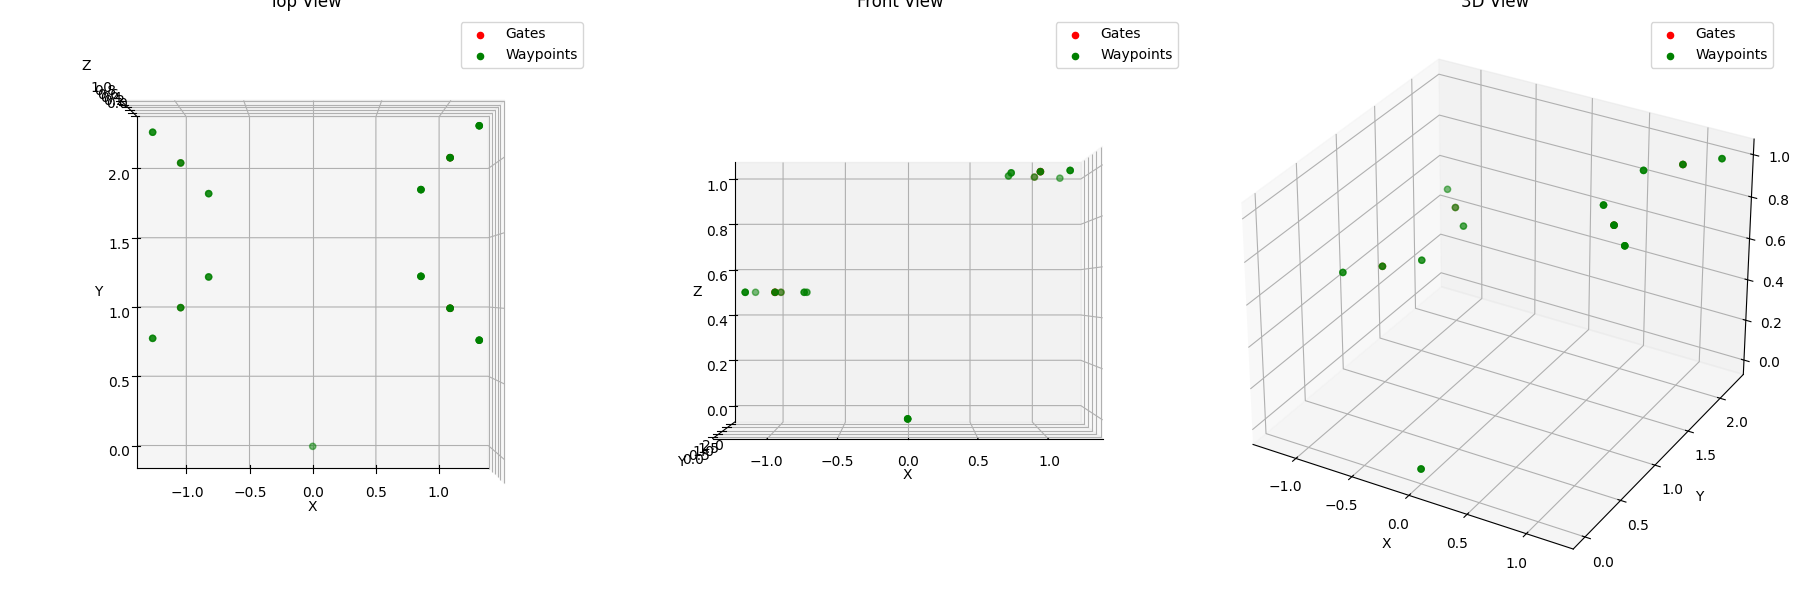
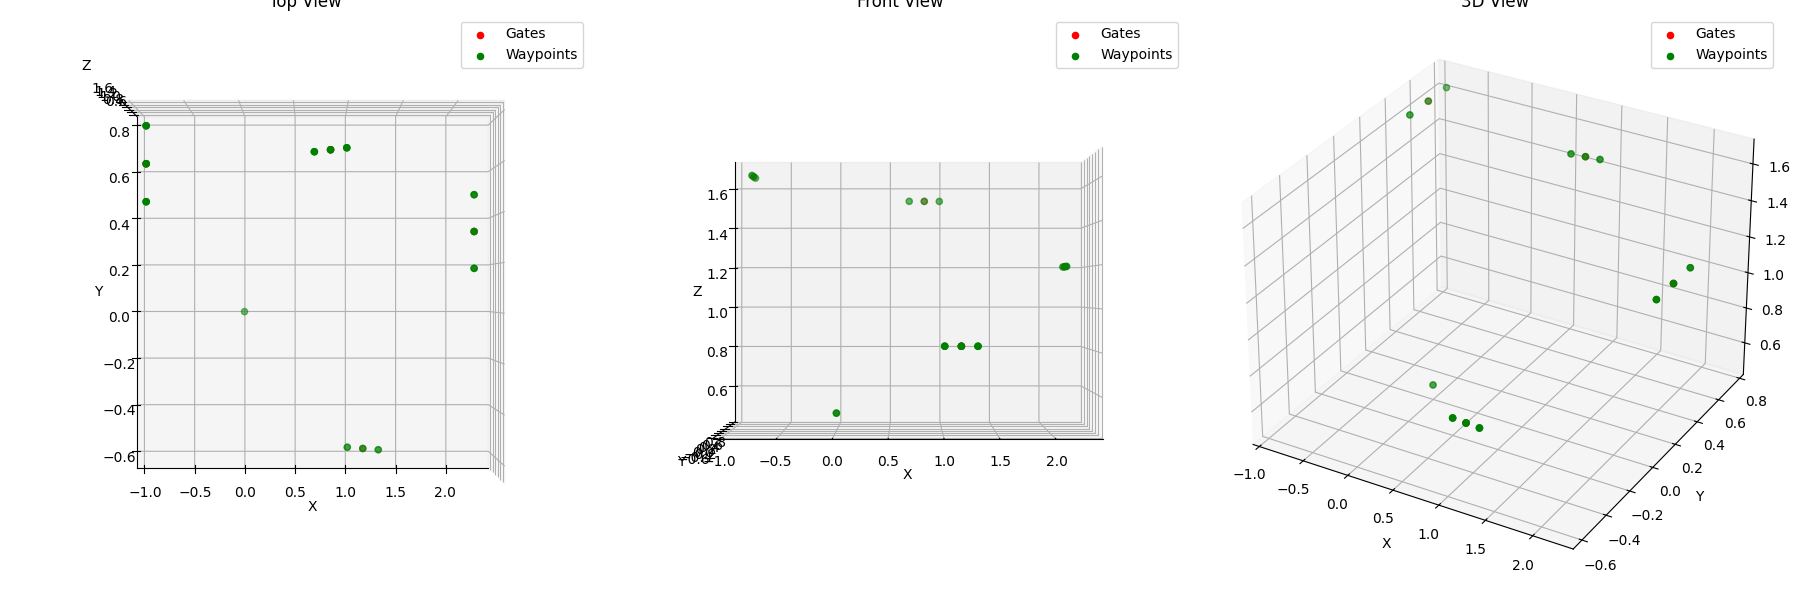
first try trajectory planning

diff --git a/main.py b/main.py
@@ -42,12 +42,13 @@ GATE_THRESHOLD = 0.05                 # Threshold for the position check, in met
 DT = 0.01                             # Time step for the main loop, in seconds
 LANDING_COORD = [0, 0, 0, 0]          # Landing position of the drone, in [m, m, m, rad]
 TAKE_OFF_COORD = [0, 0, 0.5, 0]       # Take off position of the drone, in [m, m, m, rad]
-GATES = [[1.0, 1.0, 1.0, 3*np.pi/4],  # [x, y, z, yaw] of each true gate, in [m, m, m, rad]
-         [1.0, 2.0, 1.0, np.pi/4],
-         [-1.0, 2.0, 0.5, 3*np.pi/4],
-         [-1.0, 1.0, 0.5, np.pi/4]]
-OFFSET_GATE = 0.3                     # Offset to the leading and trailing gate, in meters
-RACING_VELOCITY = 1.45                # Velocity goal during the racing, in m/s
+GATES = [  # [x, y, z, yaw] of each true gate, in [m, m, m, rad]
+        [1.16, -0.57, 0.83, np.deg2rad(-2)],
+        [2.20, 0.33, 1.20, np.deg2rad(90)],
+        [0.84, 0.65, 1.53, np.deg2rad(-177)],
+        [-0.85, 0.59, 1.65, np.deg2rad(-90)]]
+OFFSET_GATE = 0.15                     # Offset to the leading and trailing gate, in meters
+RACING_VELOCITY = 0.3               # Velocity goal during the racing, in m/s
 
 
 class LoggingExample:
@@ -127,7 +128,7 @@ class LoggingExample:
             print('Could not add Stabilizer log config, bad configuration.')
 
         # Start a timer to disconnect in 60s
-        t = Timer(120, self._cf.close_link) #WTF
+        t = Timer(500, self._cf.close_link) #WTF
         t.start()
 
     def _stab_log_error(self, logconf, msg):
@@ -379,9 +380,9 @@ class MotionPlanner3D():
         ax = fig.add_subplot(111, projection='3d')
 
         ax.plot(trajectory_setpoints[:,0], trajectory_setpoints[:,1], trajectory_setpoints[:,2], label="Minimum-Jerk Trajectory", linewidth=2)
-        ax.set_xlim(0, 8)
-        ax.set_ylim(0, 8)
-        ax.set_zlim(0, 4)
+        ax.set_xlim(-2.5, 2.5)
+        ax.set_ylim(-2.5, 2.5)
+        ax.set_zlim(0, 2.5)
 
         # Plot waypoints2laps
         waypoints_x = [p[0] for p in path_waypoints]
@@ -512,25 +513,28 @@ def create_trajectory(waypoints2laps):
     return setpoints, time_setpoints
 
 
-def trajectory_tracking(dt, timepoints, setpoints):
+def trajectory_tracking(timer, index_current_setpoint, setpoints, time_setpoints):
+    global DT
     if timer is None:
         # Begin timer and start trajectory
         timer = 0
         index_current_setpoint = 1
     else:
-        timer += dt
+        timer += DT
+
+    #print(f"Timer: {timer:.2f}, Index: {index_current_setpoint}")
 
     # Determine the current setpoint based on the time
     if timer is not None:
-        if index_current_setpoint < len(timepoints) - 1:
+        if index_current_setpoint < len(time_setpoints) - 1:
             # Update new setpoint
-            if timer >= timepoints[index_current_setpoint]:
+            if timer >= time_setpoints[index_current_setpoint]:
                 index_current_setpoint += 1
             current_setpoint = setpoints[index_current_setpoint,:]
         else:
             # Hover at the final setpoint
             current_setpoint = setpoints[-1]
-    return current_setpoint
+    return current_setpoint, timer, index_current_setpoint
 
 
 if __name__ == "__main__":
@@ -581,8 +585,9 @@ if __name__ == "__main__":
                 print("Taking off...")
             
         elif state == STATE["RACING"]:
-            control_command = trajectory_tracking(DT, time_setpoints, setpoints)
-            cf.commander.send_position_setpoint(control_command[0], control_command[1], control_command[2], control_command[3])
+            control_command, timer, index_current_setpoint = trajectory_tracking(timer, index_current_setpoint, setpoints, time_setpoints)
+            print(f"Control command: {control_command}")
+            cf.commander.send_position_setpoint(control_command[0], control_command[1], control_command[2], 0)
             print("Racing...")
 
         elif state == STATE["LANDING"]:
